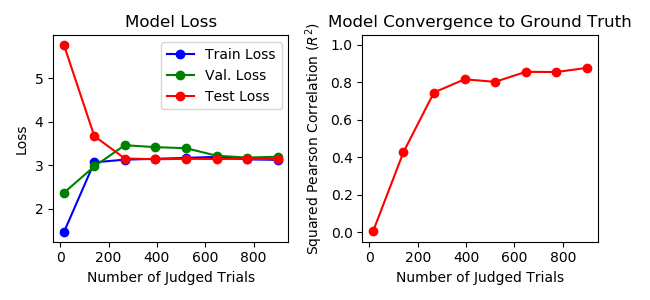
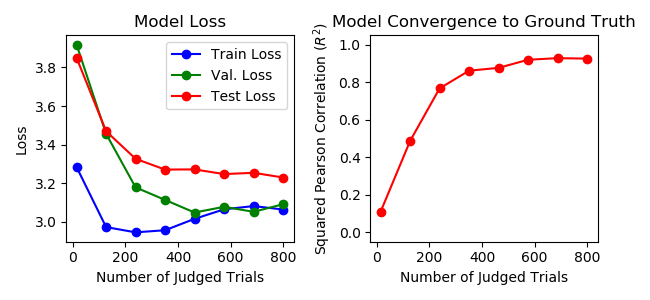
Update one_group_convergence to use new API.

diff --git a/examples/one_group_convergence.py b/examples/one_group_convergence.py
@@ -25,14 +25,15 @@ data is added.
 
 import numpy as np
 import matplotlib.pyplot as plt
+from sklearn.model_selection import StratifiedKFold
 
 from psiz.generator import RandomGenerator
 import psiz.models
-import psiz.restart
+import psiz.keras.layers
 from psiz.simulate import Agent
 from psiz.utils import pairwise_matrix, matrix_comparison
-from sklearn.model_selection import StratifiedKFold
-from tensorflow.keras.callbacks import EarlyStopping
+
+from psiz.keras.callbacks import EarlyStoppingRe
 
 
 def main():
@@ -58,16 +59,22 @@ def main():
     agent = Agent(emb_true)
     obs = agent.simulate(docket)
 
-    # Partition observations into train and test set.
-    skf = StratifiedKFold(n_splits=10)
-    (train_idx, test_idx) = list(
+    # Partition observations into train, validation and test set.
+    skf = StratifiedKFold(n_splits=5)
+    (train_idx, holdout_idx) = list(
         skf.split(obs.stimulus_set, obs.config_idx)
     )[0]
     obs_train = obs.subset(train_idx)
-    obs_test = obs.subset(test_idx)
+    obs_holdout = obs.subset(holdout_idx)
+    skf = StratifiedKFold(n_splits=2)
+    (val_idx, test_idx) = list(
+        skf.split(obs_holdout.stimulus_set, obs_holdout.config_idx)
+    )[0]
+    obs_val = obs_holdout.subset(val_idx)
+    obs_test = obs_holdout.subset(test_idx)
 
     # Use early stopping.
-    early_stop = EarlyStopping(
+    early_stop = EarlyStoppingRe(
         'val_loss', patience=10, mode='min', restore_best_weights=True
     )
 
@@ -81,29 +88,21 @@ def main():
     val_loss = np.empty((n_step))
     test_loss = np.empty((n_step))
     for i_round in range(n_step):
+        print('  Round {0}'.format(i_round))
         include_idx = np.arange(0, n_obs[i_round])
-        obs_round = obs_train.subset(include_idx)
-
-        # Partition training observations into train and validation set.
-        skf = StratifiedKFold(n_splits=10)
-        (train_idx, val_idx) = list(
-            skf.split(obs_round.stimulus_set, obs_round.config_idx)
-        )[0]
-        obs_round_train = obs_round.subset(train_idx)
-        obs_round_val = obs_round.subset(val_idx)
+        obs_round_train = obs_train.subset(include_idx)
 
         # Infer embedding.
-        kernel = psiz.models.ExponentialKernel()
-        emb_inferred = psiz.models.Rank(
-            n_stimuli, n_dim=n_dim, kernel=kernel
+        embedding = psiz.keras.layers.EmbeddingRe(n_stimuli, n_dim=n_dim)
+        kernel = psiz.keras.layers.ExponentialKernel()
+        model = psiz.models.Rank(
+            embedding=embedding, kernel=kernel
         )
+        emb_inferred = psiz.models.Proxy(model=model)
         emb_inferred.compile()
-        restarter = psiz.restart.Restarter(
-            emb_inferred, 'val_loss', n_restart=n_restart
-        )
-        restart_record = restarter.fit(
-            obs_round_train, obs_val=obs_round_val, epochs=1000, verbose=1,
-            callbacks=[early_stop]
+        restart_record = emb_inferred.fit(
+            obs_round_train, obs_val=obs_val, epochs=1000, verbose=1,
+            callbacks=[early_stop], n_restart=n_restart, monitor='val_loss'
         )
 
         train_loss[i_round] = restart_record.record['loss'][0]
@@ -119,10 +118,10 @@ def main():
             simmat_infer, simmat_true, score='r2'
         )
         print(
-            '  Round {0} | n_obs: {1:4d} | train_loss: {2:.2f} | '
-            'val_loss: {3:.2f} | test_loss: {4:.2f} | '
-            'Correlation (R^2): {5:.2f}'.format(
-                i_round, n_obs[i_round], train_loss[i_round],
+            '    n_obs: {0:4d} | train_loss: {1:.2f} | '
+            'val_loss: {2:.2f} | test_loss: {3:.2f} | '
+            'Correlation (R^2): {4:.2f}'.format(
+                n_obs[i_round], train_loss[i_round],
                 val_loss[i_round], test_loss[i_round], r2[i_round]
             )
         )
@@ -150,15 +149,18 @@ def main():
 
 def ground_truth(n_stimuli, n_dim):
     """Return a ground truth embedding."""
-    kernel = psiz.models.ExponentialKernel()
-    kernel.rho = 2.
-    kernel.tau = 1.
-    kernel.beta = 10.
-    kernel.gamma = 0.001
+    kernel = psiz.keras.layers.ExponentialKernel()
 
-    emb = psiz.models.Rank(
-        n_stimuli, n_dim=n_dim, kernel=kernel
-    )
+    embedding = psiz.keras.layers.EmbeddingRe(n_stimuli, n_dim=n_dim)
+    rankModel = psiz.models.Rank(embedding=embedding, kernel=kernel)
+
+    emb = psiz.models.Proxy(model=rankModel)
+    emb.theta = {
+        'rho': 2.,
+        'tau': 1.,
+        'beta': 10.,
+        'gamma': 0.001
+    }
 
     mean = np.zeros((n_dim))
     cov = .03 * np.identity(n_dim)
